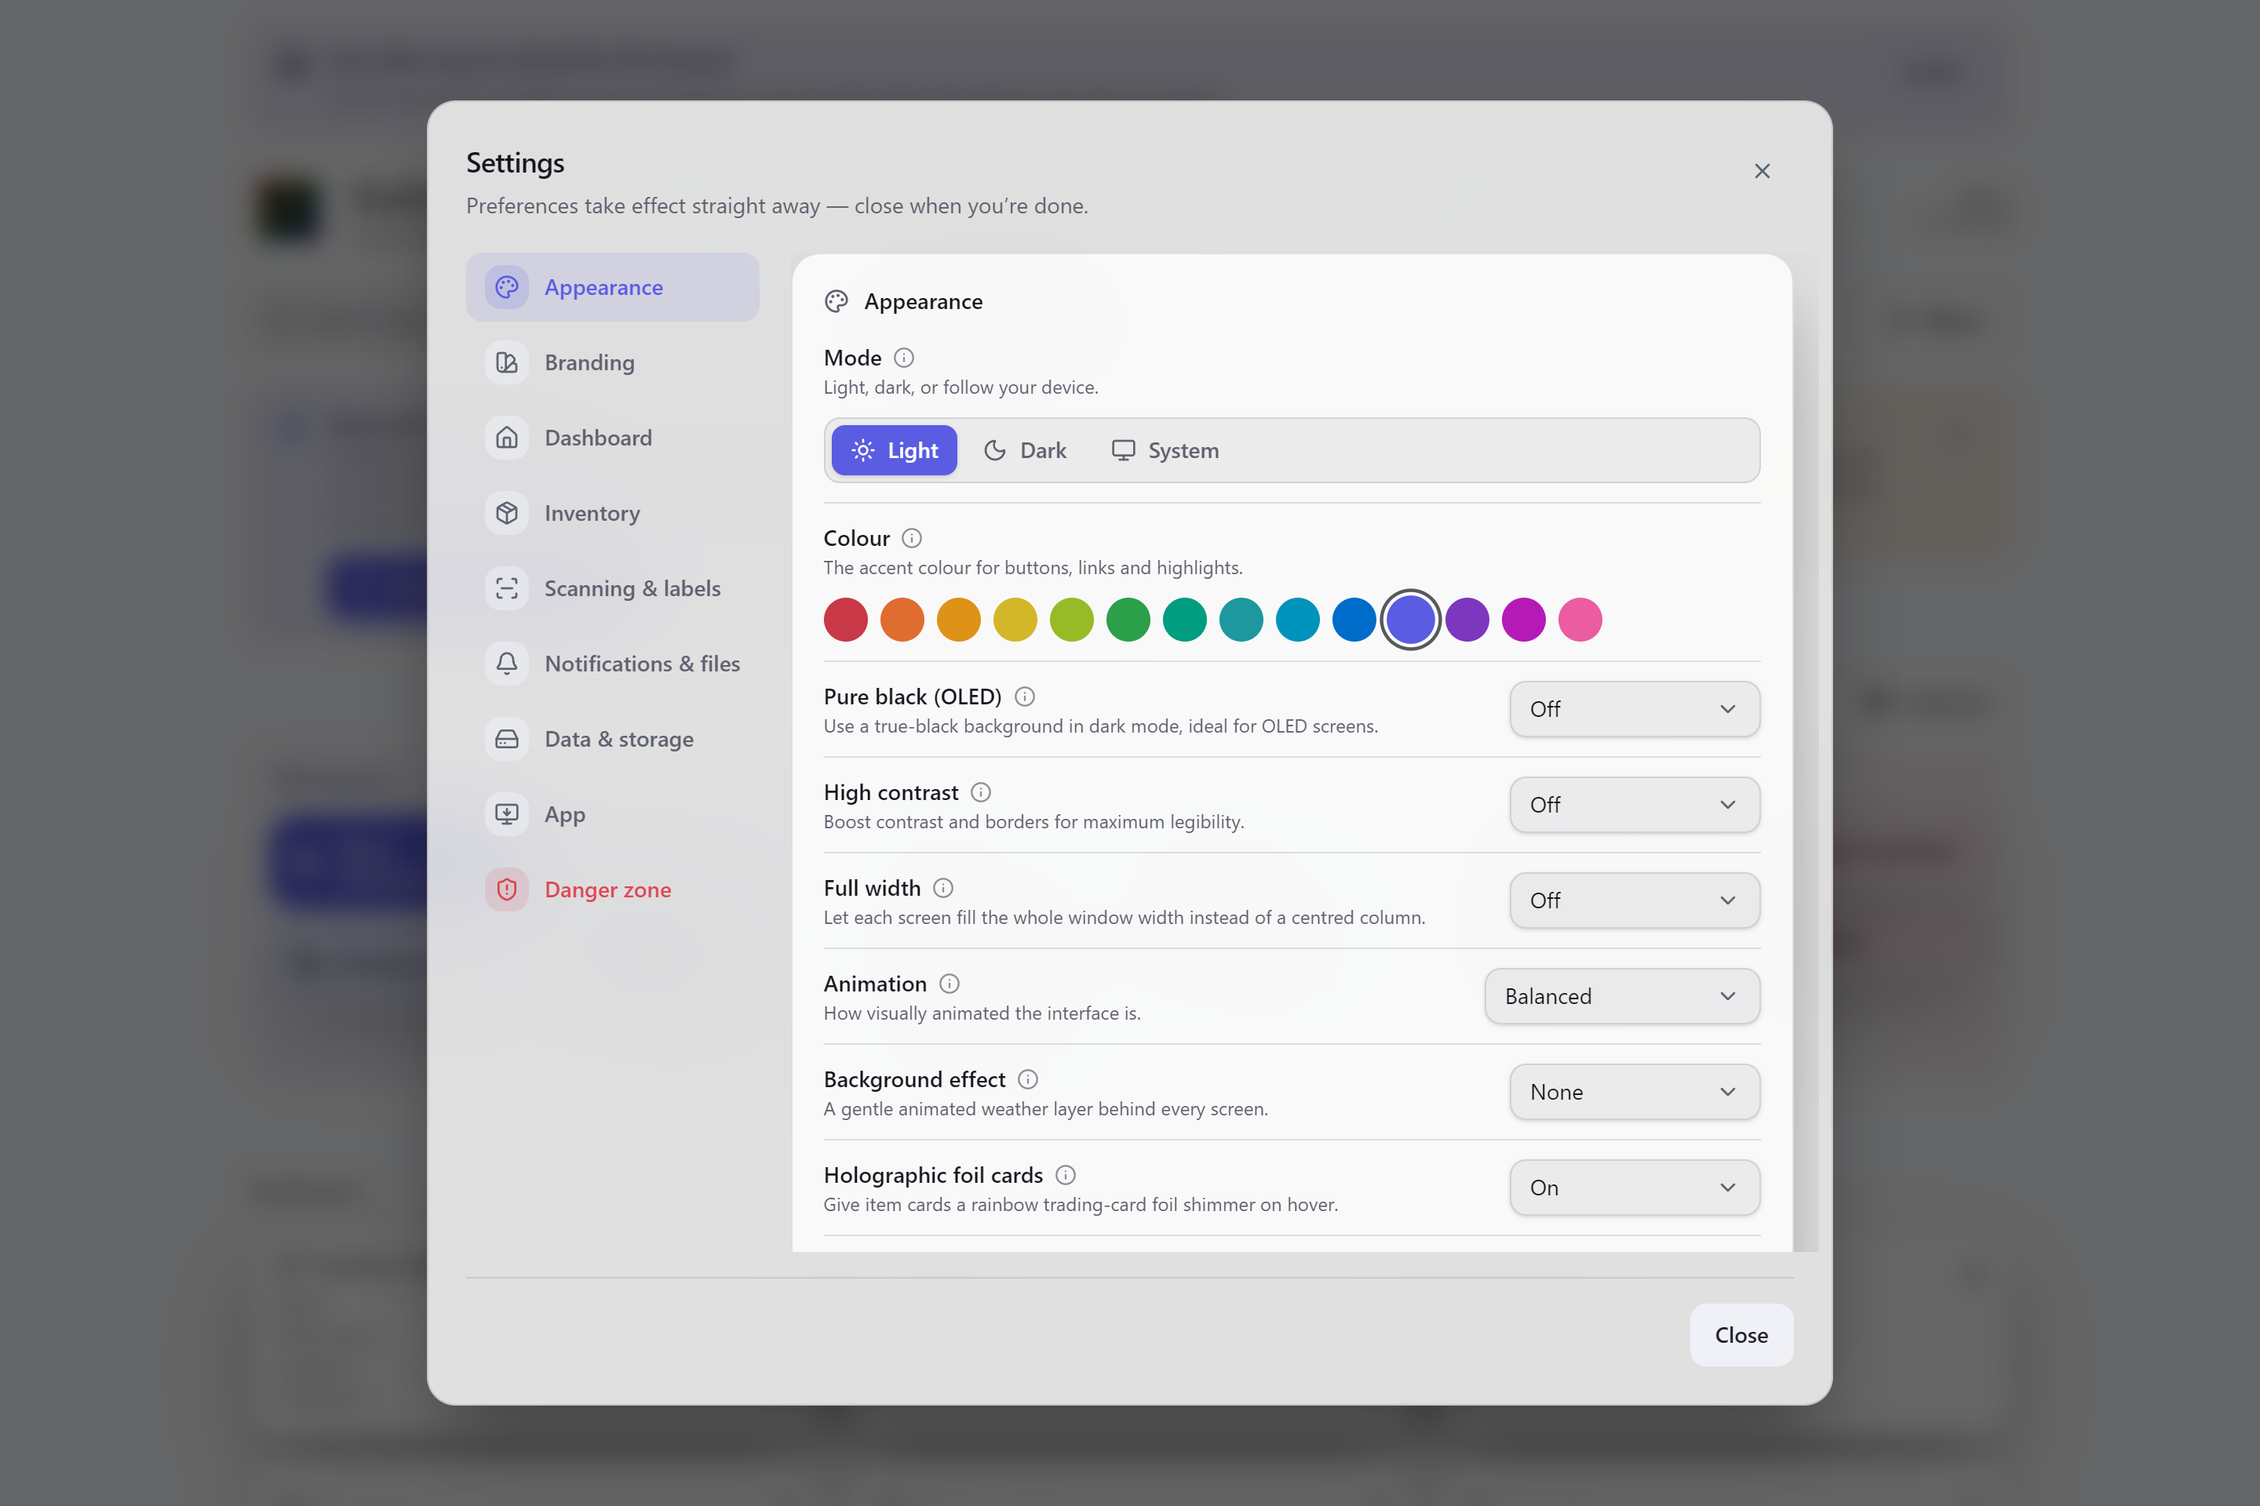
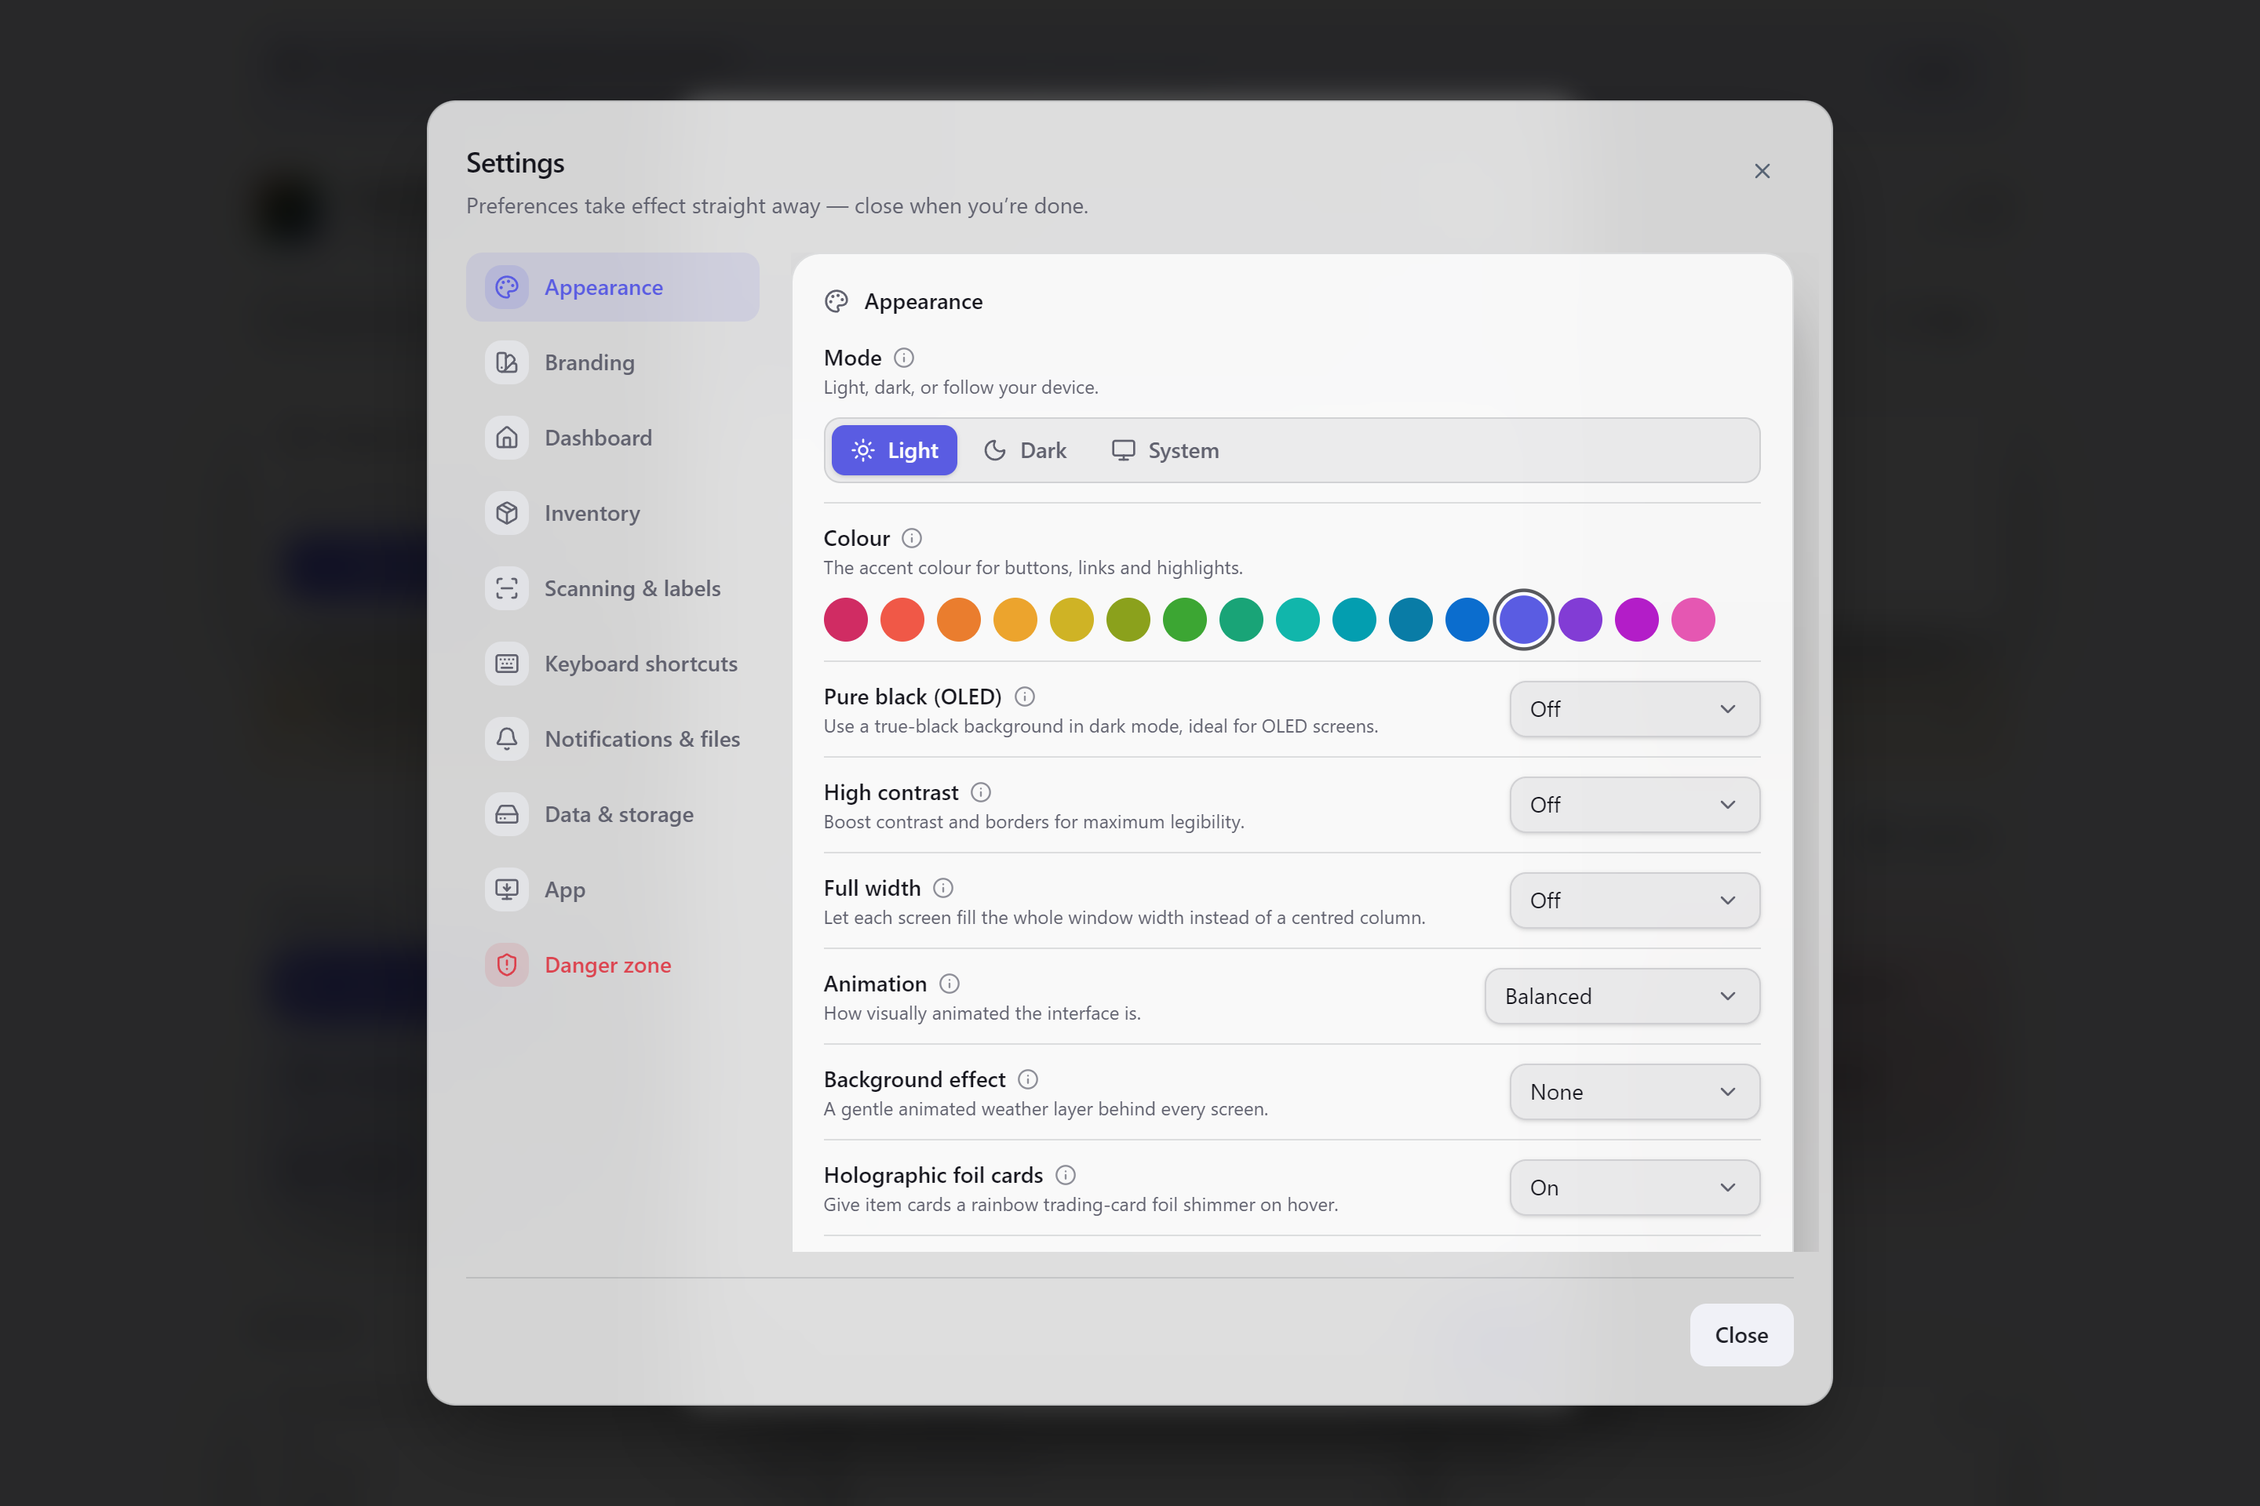
Add two accent swatches and evenly distribute all sixteen (#472)
Add Sky and Indigo to the Appearance → Colour swatch row, bringing the
accent choices to sixteen, and redistribute every accent around the hue
wheel so the swatches are equidistant — a fixed 22.5° step (360° ÷ 16).

The wheel is rotated so one swatch lands exactly on the signature violet
(hue 277°, mirroring the base primary), keeping the default appearance
unchanged while every other hue is spaced evenly around it. Each swatch
is authored in OKLCH (a perceptual model): lightness and chroma are tuned
per hue so no two adjacent swatches read as the same colour, and every
text-on-accent pair clears the same AA / AA-large bars as before in both
light and dark modes.

diff --git a/src/styles/index.css b/src/styles/index.css
@@ -417,152 +417,182 @@
  * (`features/settings/theme.ts`) sets `data-accent="<id>"` on <html>, and each accent recolours
  * only the brand tokens (`--primary` / `--ring` / `--highlight`, and `--primary-foreground` so
  * the label stays legible) — never the neutral surfaces — so every colour reads the same in both
- * modes. There are 14 accents spanning the full hue spectrum in ~26° steps (SSOT + order:
- * `theme-registry.ts`). Each is authored twice: a light variant `[data-accent='<id>']` and a dark
- * variant `.dark[data-accent='<id>']`; the dark variant *also* matches a descendant
+ * modes. There are 16 accents spanning the full hue spectrum in even 22.5° steps — 360° ÷ 16 —
+ * (SSOT + order: `theme-registry.ts`). Each is authored twice: a light variant `[data-accent='<id>']`
+ * and a dark variant `.dark[data-accent='<id>']`; the dark variant *also* matches a descendant
  * (`.dark [data-accent='<id>']`) so the Settings swatches self-preview by carrying their own
- * `data-accent`. `violet` (hue 277) mirrors the base `--primary`, so the default look is unchanged.
- * Luminous hues (orange…cyan, and pink) take a dark label; the cool/magenta hues keep white.
- * Every text/surface pair audited AA / AA-large in both modes (at parity with the violet baseline).
+ * `data-accent`. `violet` (hue 277) mirrors the base `--primary`, so the default look is unchanged;
+ * the wheel is rotated so one swatch lands exactly on 277° and the rest are equidistant around it.
+ * Luminous hues (orange…sky, and pink) take a dark label; the cool/magenta hues keep white.
+ * Every text/surface pair audited AA / AA-large in both modes (at parity with the violet baseline),
+ * and every step is perceptually distinct in OKLCH (no two adjacent swatches read alike).
  */
 [data-accent='rose'] {
-  --primary: oklch(0.56 0.18 20);
+  --primary: oklch(0.57 0.2 7);
   --primary-foreground: oklch(0.99 0 0);
-  --ring: oklch(0.56 0.18 20);
-  --highlight: oklch(0.62 0.18 20);
+  --ring: oklch(0.57 0.2 7);
+  --highlight: oklch(0.63 0.2 7);
 }
 .dark[data-accent='rose'],
 .dark [data-accent='rose'] {
-  --primary: oklch(0.63 0.19 20);
+  --primary: oklch(0.64 0.2 7);
   --primary-foreground: oklch(0.99 0 0);
-  --ring: oklch(0.63 0.19 20);
-  --highlight: oklch(0.69 0.19 20);
+  --ring: oklch(0.64 0.2 7);
+  --highlight: oklch(0.7 0.2 7);
 }
 
 [data-accent='orange'] {
-  --primary: oklch(0.66 0.16 46);
-  --primary-foreground: oklch(0.2 0.03 46);
-  --ring: oklch(0.66 0.16 46);
-  --highlight: oklch(0.72 0.16 46);
+  --primary: oklch(0.66 0.19 29.5);
+  --primary-foreground: oklch(0.2 0.03 29.5);
+  --ring: oklch(0.66 0.19 29.5);
+  --highlight: oklch(0.72 0.17 29.5);
 }
 .dark[data-accent='orange'],
 .dark [data-accent='orange'] {
-  --primary: oklch(0.73 0.16 46);
-  --primary-foreground: oklch(0.2 0.03 46);
-  --ring: oklch(0.73 0.16 46);
-  --highlight: oklch(0.79 0.16 46);
+  --primary: oklch(0.72 0.17 29.5);
+  --primary-foreground: oklch(0.2 0.03 29.5);
+  --ring: oklch(0.72 0.17 29.5);
+  --highlight: oklch(0.78 0.125 29.5);
 }
 
 [data-accent='amber'] {
-  --primary: oklch(0.72 0.15 71);
-  --primary-foreground: oklch(0.2 0.03 71);
-  --ring: oklch(0.72 0.15 71);
-  --highlight: oklch(0.78 0.15 71);
+  --primary: oklch(0.7 0.16 52);
+  --primary-foreground: oklch(0.2 0.03 52);
+  --ring: oklch(0.7 0.16 52);
+  --highlight: oklch(0.76 0.16 52);
 }
 .dark[data-accent='amber'],
 .dark [data-accent='amber'] {
-  --primary: oklch(0.8 0.15 71);
-  --primary-foreground: oklch(0.2 0.03 71);
-  --ring: oklch(0.8 0.15 71);
-  --highlight: oklch(0.86 0.15 71);
+  --primary: oklch(0.76 0.15 52);
+  --primary-foreground: oklch(0.2 0.03 52);
+  --ring: oklch(0.76 0.15 52);
+  --highlight: oklch(0.82 0.11 52);
 }
 
 [data-accent='yellow'] {
-  --primary: oklch(0.78 0.15 97);
-  --primary-foreground: oklch(0.2 0.03 97);
-  --ring: oklch(0.78 0.15 97);
-  --highlight: oklch(0.84 0.15 97);
+  --primary: oklch(0.77 0.15 74.5);
+  --primary-foreground: oklch(0.2 0.03 74.5);
+  --ring: oklch(0.77 0.15 74.5);
+  --highlight: oklch(0.83 0.145 74.5);
 }
 .dark[data-accent='yellow'],
 .dark [data-accent='yellow'] {
-  --primary: oklch(0.86 0.16 97);
-  --primary-foreground: oklch(0.2 0.03 97);
-  --ring: oklch(0.86 0.16 97);
-  --highlight: oklch(0.9 0.16 97);
+  --primary: oklch(0.83 0.145 74.5);
+  --primary-foreground: oklch(0.2 0.03 74.5);
+  --ring: oklch(0.83 0.145 74.5);
+  --highlight: oklch(0.89 0.09 74.5);
 }
 
 [data-accent='lime'] {
-  --primary: oklch(0.74 0.17 123);
-  --primary-foreground: oklch(0.2 0.03 123);
-  --ring: oklch(0.74 0.17 123);
-  --highlight: oklch(0.8 0.17 123);
+  --primary: oklch(0.77 0.15 97);
+  --primary-foreground: oklch(0.2 0.03 97);
+  --ring: oklch(0.77 0.15 97);
+  --highlight: oklch(0.83 0.15 97);
 }
 .dark[data-accent='lime'],
 .dark [data-accent='lime'] {
-  --primary: oklch(0.83 0.18 123);
-  --primary-foreground: oklch(0.2 0.03 123);
-  --ring: oklch(0.83 0.18 123);
-  --highlight: oklch(0.89 0.18 123);
+  --primary: oklch(0.84 0.16 97);
+  --primary-foreground: oklch(0.2 0.03 97);
+  --ring: oklch(0.84 0.16 97);
+  --highlight: oklch(0.9 0.16 97);
 }
 
 [data-accent='green'] {
-  --primary: oklch(0.62 0.16 148);
-  --primary-foreground: oklch(0.2 0.03 148);
-  --ring: oklch(0.62 0.16 148);
-  --highlight: oklch(0.68 0.16 148);
+  --primary: oklch(0.67 0.15 119.5);
+  --primary-foreground: oklch(0.2 0.03 119.5);
+  --ring: oklch(0.67 0.15 119.5);
+  --highlight: oklch(0.73 0.15 119.5);
 }
 .dark[data-accent='green'],
 .dark [data-accent='green'] {
-  --primary: oklch(0.72 0.17 148);
-  --primary-foreground: oklch(0.2 0.03 148);
-  --ring: oklch(0.72 0.17 148);
-  --highlight: oklch(0.78 0.17 148);
+  --primary: oklch(0.76 0.17 119.5);
+  --primary-foreground: oklch(0.2 0.03 119.5);
+  --ring: oklch(0.76 0.17 119.5);
+  --highlight: oklch(0.82 0.17 119.5);
 }
 
 [data-accent='emerald'] {
-  --primary: oklch(0.62 0.12 174);
-  --primary-foreground: oklch(0.2 0.03 174);
-  --ring: oklch(0.62 0.12 174);
-  --highlight: oklch(0.68 0.12 174);
+  --primary: oklch(0.64 0.18 142);
+  --primary-foreground: oklch(0.2 0.03 142);
+  --ring: oklch(0.64 0.18 142);
+  --highlight: oklch(0.7 0.18 142);
 }
 .dark[data-accent='emerald'],
 .dark [data-accent='emerald'] {
-  --primary: oklch(0.73 0.13 174);
-  --primary-foreground: oklch(0.2 0.03 174);
-  --ring: oklch(0.73 0.13 174);
-  --highlight: oklch(0.79 0.13 174);
+  --primary: oklch(0.74 0.2 142);
+  --primary-foreground: oklch(0.2 0.03 142);
+  --ring: oklch(0.74 0.2 142);
+  --highlight: oklch(0.8 0.2 142);
 }
 
 [data-accent='teal'] {
-  --primary: oklch(0.62 0.1 200);
-  --primary-foreground: oklch(0.2 0.03 200);
-  --ring: oklch(0.62 0.1 200);
-  --highlight: oklch(0.68 0.1 200);
+  --primary: oklch(0.64 0.13 164.5);
+  --primary-foreground: oklch(0.2 0.03 164.5);
+  --ring: oklch(0.64 0.13 164.5);
+  --highlight: oklch(0.7 0.13 164.5);
 }
 .dark[data-accent='teal'],
 .dark [data-accent='teal'] {
-  --primary: oklch(0.73 0.11 200);
-  --primary-foreground: oklch(0.2 0.03 200);
-  --ring: oklch(0.73 0.11 200);
-  --highlight: oklch(0.79 0.11 200);
+  --primary: oklch(0.74 0.14 164.5);
+  --primary-foreground: oklch(0.2 0.03 164.5);
+  --ring: oklch(0.74 0.14 164.5);
+  --highlight: oklch(0.8 0.14 164.5);
 }
 
 [data-accent='cyan'] {
-  --primary: oklch(0.62 0.12 225);
-  --primary-foreground: oklch(0.2 0.03 225);
-  --ring: oklch(0.62 0.12 225);
-  --highlight: oklch(0.68 0.12 225);
+  --primary: oklch(0.7 0.12 187);
+  --primary-foreground: oklch(0.2 0.03 187);
+  --ring: oklch(0.7 0.12 187);
+  --highlight: oklch(0.76 0.12 187);
 }
 .dark[data-accent='cyan'],
 .dark [data-accent='cyan'] {
-  --primary: oklch(0.73 0.13 225);
-  --primary-foreground: oklch(0.2 0.03 225);
-  --ring: oklch(0.73 0.13 225);
-  --highlight: oklch(0.79 0.13 225);
+  --primary: oklch(0.78 0.13 187);
+  --primary-foreground: oklch(0.2 0.03 187);
+  --ring: oklch(0.78 0.13 187);
+  --highlight: oklch(0.84 0.13 187);
+}
+
+[data-accent='sky'] {
+  --primary: oklch(0.64 0.11 209.5);
+  --primary-foreground: oklch(0.2 0.03 209.5);
+  --ring: oklch(0.64 0.11 209.5);
+  --highlight: oklch(0.7 0.11 209.5);
+}
+.dark[data-accent='sky'],
+.dark [data-accent='sky'] {
+  --primary: oklch(0.74 0.12 209.5);
+  --primary-foreground: oklch(0.2 0.03 209.5);
+  --ring: oklch(0.74 0.12 209.5);
+  --highlight: oklch(0.8 0.12 209.5);
 }
 
 [data-accent='blue'] {
-  --primary: oklch(0.53 0.17 251);
+  --primary: oklch(0.55 0.11 232);
   --primary-foreground: oklch(0.99 0 0);
-  --ring: oklch(0.53 0.17 251);
-  --highlight: oklch(0.59 0.17 251);
+  --ring: oklch(0.55 0.11 232);
+  --highlight: oklch(0.61 0.11 232);
 }
 .dark[data-accent='blue'],
 .dark [data-accent='blue'] {
-  --primary: oklch(0.61 0.18 251);
+  --primary: oklch(0.62 0.12 232);
   --primary-foreground: oklch(0.99 0 0);
-  --ring: oklch(0.61 0.18 251);
-  --highlight: oklch(0.67 0.18 251);
+  --ring: oklch(0.62 0.12 232);
+  --highlight: oklch(0.68 0.12 232);
+}
+
+[data-accent='indigo'] {
+  --primary: oklch(0.54 0.17 254.5);
+  --primary-foreground: oklch(0.99 0 0);
+  --ring: oklch(0.54 0.17 254.5);
+  --highlight: oklch(0.6 0.17 254.5);
+}
+.dark[data-accent='indigo'],
+.dark [data-accent='indigo'] {
+  --primary: oklch(0.62 0.19 254.5);
+  --primary-foreground: oklch(0.99 0 0);
+  --ring: oklch(0.62 0.19 254.5);
+  --highlight: oklch(0.68 0.17 254.5);
 }
 
 [data-accent='violet'] {
@@ -580,45 +610,45 @@
 }
 
 [data-accent='purple'] {
-  --primary: oklch(0.5 0.2 303);
+  --primary: oklch(0.53 0.22 299.5);
   --primary-foreground: oklch(0.99 0 0);
-  --ring: oklch(0.5 0.2 303);
-  --highlight: oklch(0.56 0.2 303);
+  --ring: oklch(0.53 0.22 299.5);
+  --highlight: oklch(0.59 0.22 299.5);
 }
 .dark[data-accent='purple'],
 .dark [data-accent='purple'] {
-  --primary: oklch(0.6 0.21 303);
+  --primary: oklch(0.62 0.23 299.5);
   --primary-foreground: oklch(0.99 0 0);
-  --ring: oklch(0.6 0.21 303);
-  --highlight: oklch(0.66 0.21 303);
+  --ring: oklch(0.62 0.23 299.5);
+  --highlight: oklch(0.68 0.195 299.5);
 }
 
 [data-accent='fuchsia'] {
-  --primary: oklch(0.55 0.24 328);
+  --primary: oklch(0.56 0.25 322);
   --primary-foreground: oklch(0.99 0 0);
-  --ring: oklch(0.55 0.24 328);
-  --highlight: oklch(0.61 0.24 328);
+  --ring: oklch(0.56 0.25 322);
+  --highlight: oklch(0.62 0.25 322);
 }
 .dark[data-accent='fuchsia'],
 .dark [data-accent='fuchsia'] {
-  --primary: oklch(0.64 0.24 328);
+  --primary: oklch(0.64 0.25 322);
   --primary-foreground: oklch(0.99 0 0);
-  --ring: oklch(0.64 0.24 328);
-  --highlight: oklch(0.7 0.24 328);
+  --ring: oklch(0.64 0.25 322);
+  --highlight: oklch(0.7 0.25 322);
 }
 
 [data-accent='pink'] {
-  --primary: oklch(0.68 0.19 354);
-  --primary-foreground: oklch(0.2 0.03 354);
-  --ring: oklch(0.68 0.19 354);
-  --highlight: oklch(0.74 0.19 354);
+  --primary: oklch(0.67 0.2 344.5);
+  --primary-foreground: oklch(0.2 0.03 344.5);
+  --ring: oklch(0.67 0.2 344.5);
+  --highlight: oklch(0.73 0.2 344.5);
 }
 .dark[data-accent='pink'],
 .dark [data-accent='pink'] {
-  --primary: oklch(0.74 0.19 354);
-  --primary-foreground: oklch(0.2 0.03 354);
-  --ring: oklch(0.74 0.19 354);
-  --highlight: oklch(0.8 0.19 354);
+  --primary: oklch(0.74 0.2 344.5);
+  --primary-foreground: oklch(0.2 0.03 344.5);
+  --ring: oklch(0.74 0.2 344.5);
+  --highlight: oklch(0.8 0.145 344.5);
 }
 
 /*

diff --git a/src/features/settings/theme-registry.ts b/src/features/settings/theme-registry.ts
@@ -43,11 +43,13 @@ export function normaliseMode(value: string): Mode {
 }
 
 /**
- * Selectable accent colours — 14 hues spanning the full spectrum in ~26° steps, listed in
- * rainbow (hue) order so the swatch row reads as a spectrum. Each id maps to a
+ * Selectable accent colours — 16 hues spanning the full spectrum in even 22.5° steps (360° ÷ 16),
+ * listed in rainbow (hue) order so the swatch row reads as a smooth spectrum. Each id maps to a
  * `[data-accent='<id>']` block in `styles/index.css` (light + dark variants). `violet` is the
  * app's signature default (anchored at hue 277°) and mirrors the base `--primary` so the shipped
- * look is unchanged when it is selected; the other 13 are evenly distributed around it.
+ * look is unchanged when it is selected; the wheel is rotated so one swatch lands exactly on 277°
+ * and the other 15 are equidistant around it. Every step is tuned in OKLCH (a perceptual model) so
+ * no two adjacent swatches read as the same colour, and every text/surface pair clears AA.
  */
 export const ACCENTS = [
   { id: 'rose', label: 'Rose' },
@@ -59,7 +61,9 @@ export const ACCENTS = [
   { id: 'emerald', label: 'Emerald' },
   { id: 'teal', label: 'Teal' },
   { id: 'cyan', label: 'Cyan' },
+  { id: 'sky', label: 'Sky' },
   { id: 'blue', label: 'Blue' },
+  { id: 'indigo', label: 'Indigo' },
   { id: 'violet', label: 'Violet' },
   { id: 'purple', label: 'Purple' },
   { id: 'fuchsia', label: 'Fuchsia' },

diff --git a/src/features/settings/theme-registry.test.ts b/src/features/settings/theme-registry.test.ts
@@ -63,7 +63,9 @@ describe('ACCENTS', () => {
       'emerald',
       'teal',
       'cyan',
+      'sky',
       'blue',
+      'indigo',
       'violet',
       'purple',
       'fuchsia',
